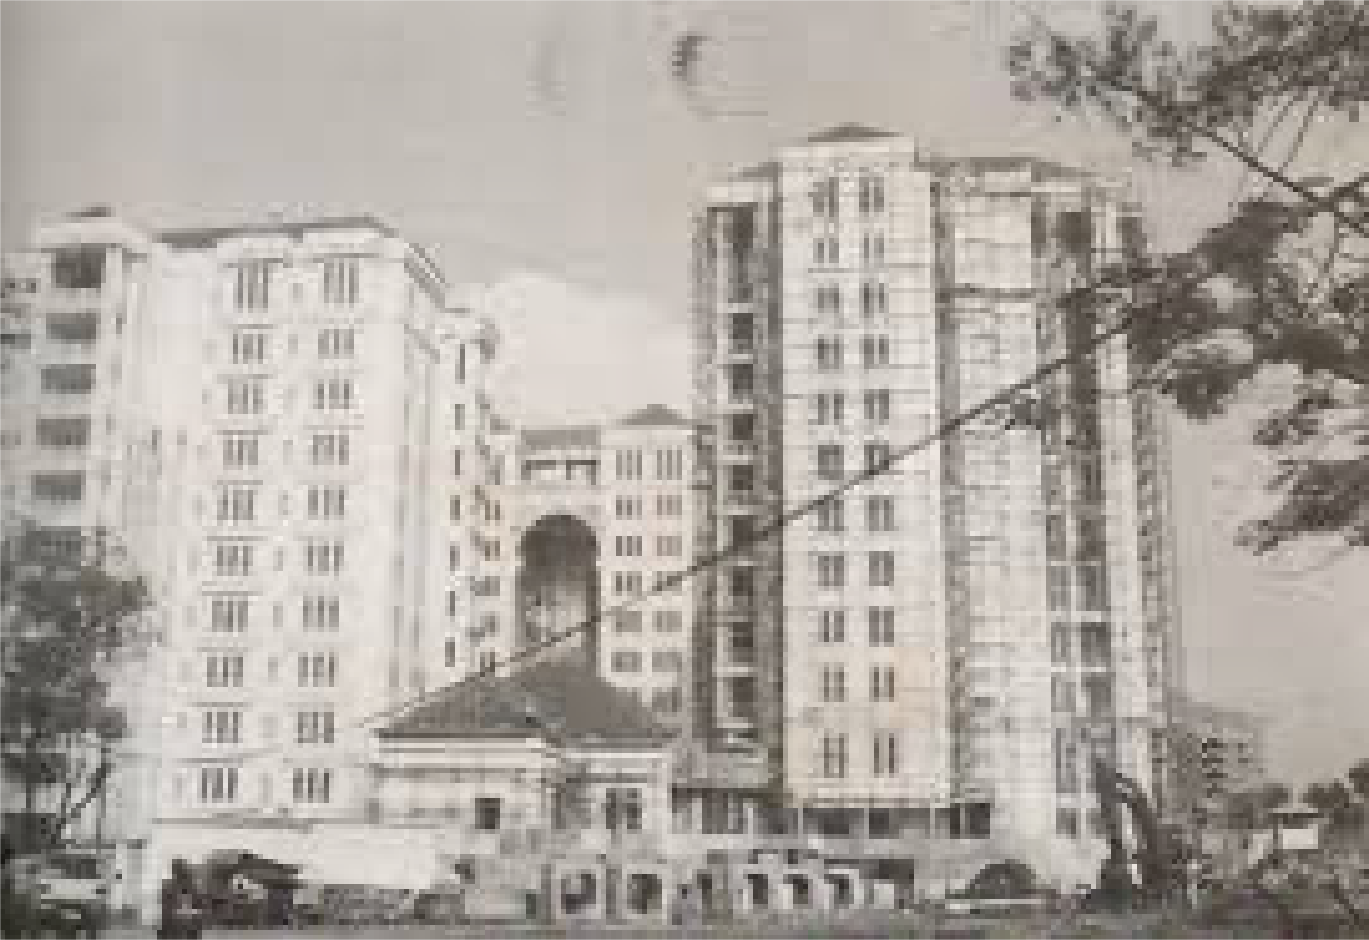
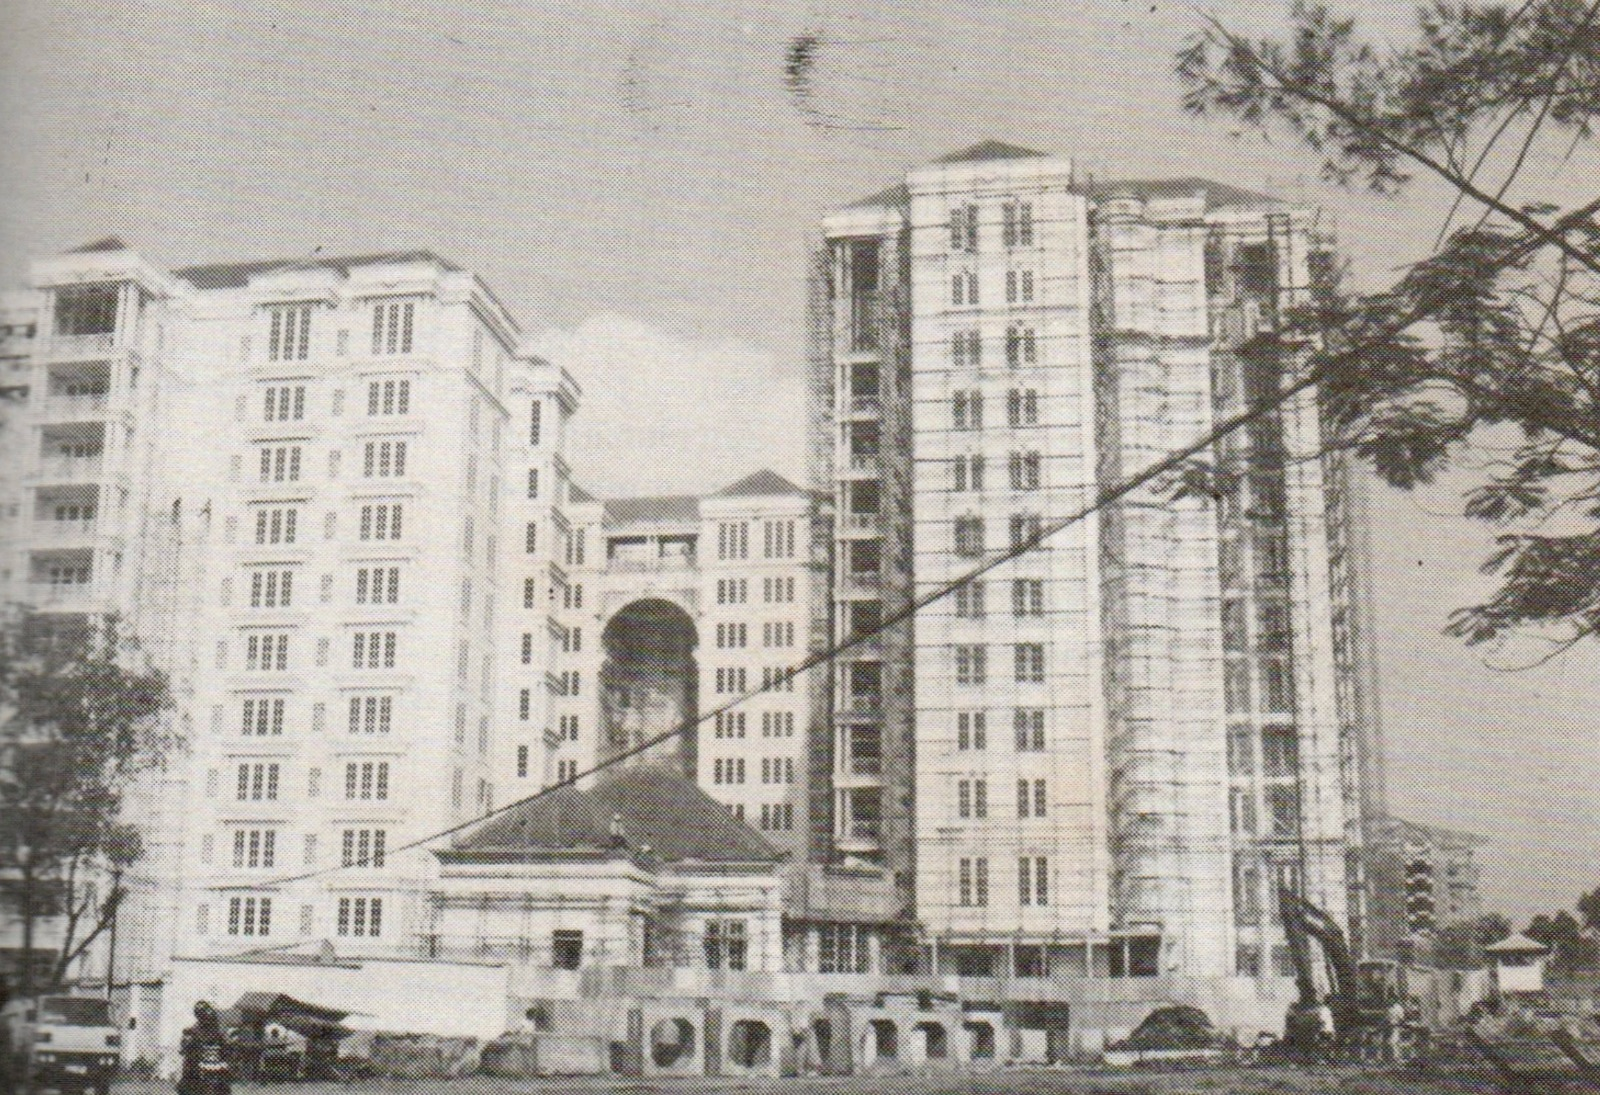
Update news

Changed region(s): [[0.0, 0.0, 1.0, 1.0], [0.4909, 0.0309, 0.5215, 0.0926]]

diff --git a/resources/views/components/news-card.blade.php b/resources/views/components/news-card.blade.php
@@ -1,24 +1,24 @@
 @props(['image', 'title', 'date', 'url' => '#', 'excerpt' => ''])
 
 <div class="relative isolate flex flex-col justify-end overflow-hidden rounded-2xl bg-white">
-    <img class="aspect-video object-cover" src="{{ $image }}" alt="">
+    <a href="{{ $url }}">
+        <img class="aspect-video object-cover" src="{{ $image }}" alt="">
 
-    <div class="flex flex-col gap-3 bg-white p-3 px-5 pb-6">
-        <div>
-            <h3 class="text-primary text-xl/snug font-semibold">
-                <a href="{{ $url }}">
+        <div class="flex flex-col gap-3 bg-white p-3 px-5 pb-6">
+            <div>
+                <h3 class="text-primary text-xl/snug font-semibold">
                     {{ $title }}
-                </a>
-            </h3>
+                </h3>
 
-            <div class="flex flex-wrap items-center gap-y-1 overflow-hidden text-xs/snug">
-                <time class="" datetime="{{ $date }}">{{ $date }}</time>
+                <div class="flex flex-wrap items-center gap-y-1 overflow-hidden text-xs/snug">
+                    <time class="" datetime="{{ $date }}">{{ $date }}</time>
+                </div>
             </div>
-        </div>
+    </a>
 
-        <p class="line-clamp-3 text-sm/snug">
-            {{ $excerpt }}
-        </p>
+    <p class="line-clamp-3 text-sm/snug">
+        {{ $excerpt }}
+    </p>
 
-    </div>
+</div>
 </div>

diff --git a/app/Filament/Resources/News/Schemas/NewsForm.php b/app/Filament/Resources/News/Schemas/NewsForm.php
@@ -30,6 +30,7 @@ class NewsForm
                 DateTimePicker::make('published_at')
                     ->default(now())
                     ->required(),
-            ]);
+            ])
+            ->columns(1);
     }
 }

diff --git a/app/Http/Controllers/HomeController.php b/app/Http/Controllers/HomeController.php
@@ -13,7 +13,7 @@ class HomeController extends Controller
             ->title(env('APP_NAME', 'Permata Hijau'), template: false)
             ->description('Selamat datang di Permata Hijau.');
 
-        $events = Event::take(10)->orderBy('start_at', 'asc')->get();
+        $events = Event::take(10)->orderBy('end_at', 'desc')->get();
         $news = News::take(10)->orderBy('published_at', 'desc')->get();
 
         return view('welcome', compact('events', 'news'));

diff --git a/resources/views/about.blade.php b/resources/views/about.blade.php
@@ -81,7 +81,7 @@
             Key Highlight
         </x-section-title>
 
-        <x-split-grid title="Developer" image="{{ asset('img/about/about-1.png') }}">
+        <x-split-grid title="Developer" image="{{ asset('img/about/about-1.jpeg') }}">
             <x-slot:description>
                 Permata Hijau Apartment is a prestigious residential project
                 developed by PT Masato Prima. Construction for Towers 1 & 2

diff --git a/resources/views/news/show.blade.php b/resources/views/news/show.blade.php
@@ -8,6 +8,8 @@
     </div>
 
     <section class="prose mx-auto">
+        <img class="aspect-video object-cover" src="{{ $news->getFirstMediaUrl() }}" alt="">
+
         <div class="text-center">
             <h1 class="font-imbue text-primary mb-0 mt-2 text-4xl font-bold">
                 {{ $news->title }}